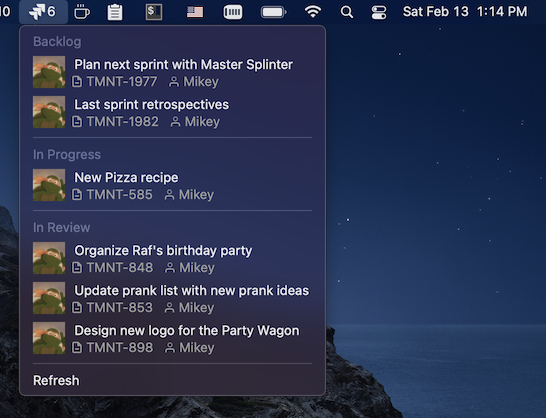
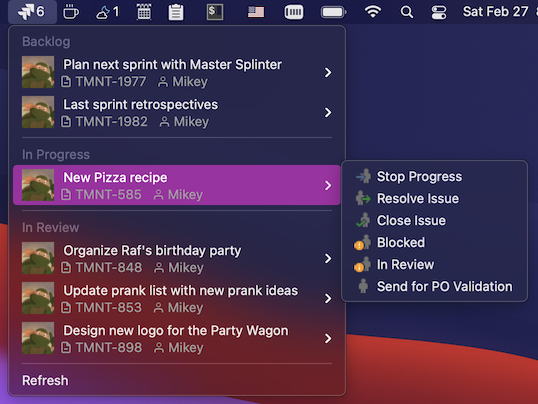
fix #1

diff --git a/README.md b/README.md
@@ -1,6 +1,6 @@
 # Jira Menu Bar App
 
-Shows a list of Jira tickets grouped by a status which are assigned to a user:
+Shows a list of Jira tickets assigned to a user and grouped by a status. It's also possible to transition selected ticket to a different status.
 
 <p align="center">
   <img src="https://github.com/fork-my-spoons/jira-issues.spoon/raw/main/screenshots/jira.png"/>
@@ -32,7 +32,7 @@ hs.loadSpoon('jira-issues')
 spoon['jira-issues']:setup({
     jira_host = 'https://jira.tmnt.ca',
     login = 'mikey',
-    password = 'cowabunga123',   
+    api_token = 'cowabunga123',   
 })
 spoon['jira-issues']:start()
 ```
@@ -45,10 +45,11 @@ hs.loadSpoon('jira-issues')
 spoon['jira-issues']:setup({
     jira_host = 'https://jira.tmnt.ca',
     login = 'mikey',
-    password = 'cowabunga123',
+    api_token = 'cowabunga123',
     jql = 'project = TMNT AND status = Open AND assignee in (EMPTY)'
 })
 spoon['jira-issues']:start()
 ```
 
+Here is atlassian documentation on how to get an API token: [Manage API tokens for your Atlassian account](https://support.atlassian.com/atlassian-account/docs/manage-api-tokens-for-your-atlassian-account/). In case you are using an old version of Jira, simply put your password instead of an API token.  
 This app uses icons, to properly display them, install a [feather-font](https://github.com/AT-UI/feather-font) by [downloading](https://github.com/AT-UI/feather-font/raw/master/src/fonts/feather.ttf) this .ttf font and installing it.
